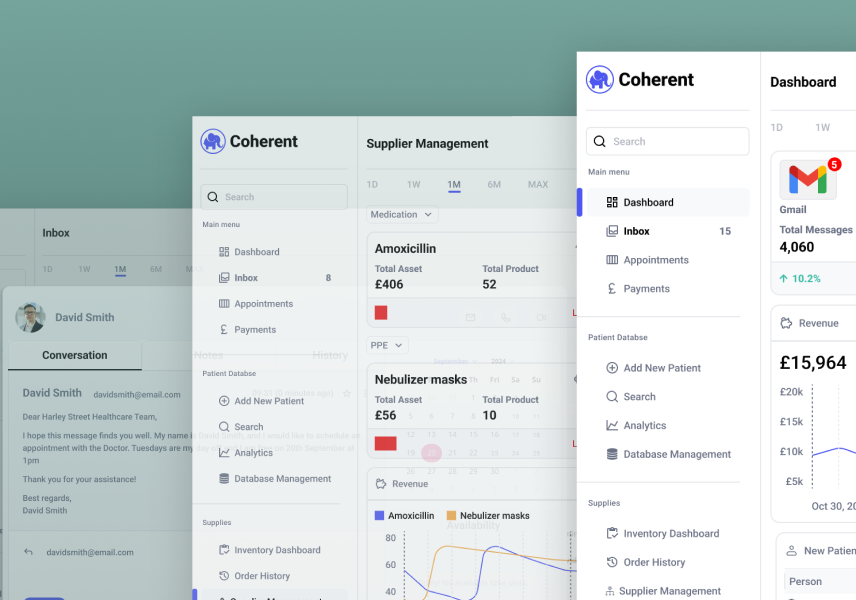
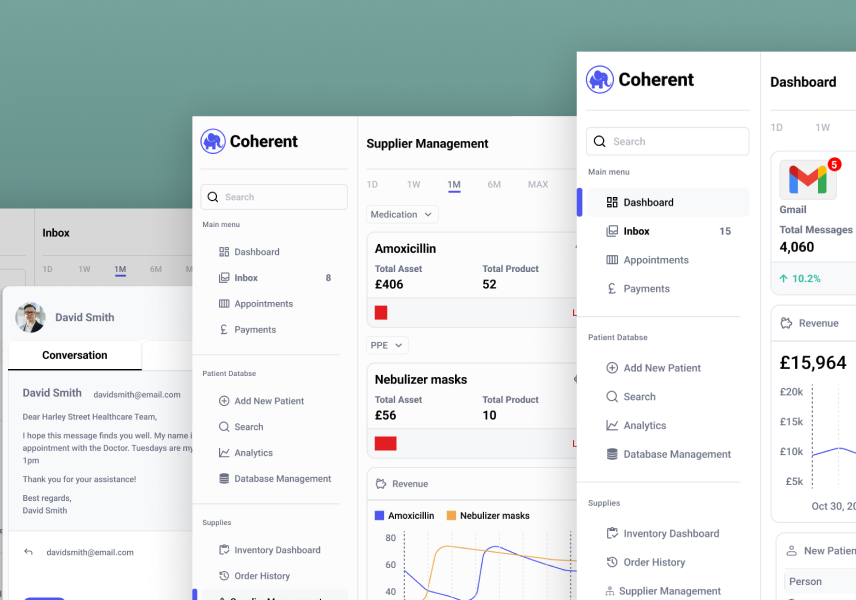
dark and light images

diff --git a/src/app/(pages)/elevate4/page.tsx b/src/app/(pages)/elevate4/page.tsx
@@ -1,3 +1,5 @@
+"use client"
+
 import Image from 'next/image';
 import { elevateData } from '@/app/data/elevate';
 import SectionTitle from '@/app/components/ui/SectionTitle';
@@ -16,6 +18,9 @@ import ProblemStatement from '@/app/components/ui/ProblemStatement';
 import TitleTextVideoSection from '@/app/components/ui/TitleTextVideoSection';
 import CoherentCard from '@/app/components/sections/CoherentCard';
 import AccCard from '@/app/components/sections/AacCard';
+import { useDarkMode } from '@/contexts/DarkModeContext';
+import Storyboard from '@/app/components/ui/Storyboard';
+import { useEffect, useState } from 'react';
 
 export default function ElevatePage() {
   const items = [
@@ -46,6 +51,18 @@ export default function ElevatePage() {
     { iconSrc: elevateData.arrow, title: "Team Insights Visualisation", sentence: elevateData.usability_text4 },
   ]
 
+  const { isDarkMode } = useDarkMode();
+  const [isMounted, setIsMounted] = useState(false);
+    
+      // Set mounted state to true after component mounts
+      useEffect(() => {
+        setIsMounted(true);
+      }, []);
+    
+      // Render nothing until mounted to avoid hydration issues
+      if (!isMounted) {
+        return null; // You can also return a loading spinner or placeholder if desired
+      }
 
     return (
       <div className="mt-4">
@@ -205,7 +222,17 @@ export default function ElevatePage() {
 
         <div className="max-w-[910px] mx-auto mt-8">
           <SectionTitle title={elevateData.story_title} />
-          <div className="relative max-w-[910px] mx-auto h-auto mb-8">
+          <Storyboard frames={[
+          { image: elevateData.storyboard1_image, caption: elevateData.storyboard1 },
+          { image: elevateData.storyboard2_image, caption: elevateData.storyboard2 },
+          { image: elevateData.storyboard3_image, caption: elevateData.storyboard3 },
+          { image: elevateData.storyboard4_image, caption: elevateData.storyboard4 },
+          { image: elevateData.storyboard5_image, caption: elevateData.storyboard5 },
+          { image: elevateData.storyboard6_image, caption: elevateData.storyboard6 },
+          { image: elevateData.storyboard7_image, caption: elevateData.storyboard7 },
+          { image: elevateData.storyboard8_image, caption: elevateData.storyboard8 },
+        ]} />
+          {/* <div className="relative max-w-[910px] mx-auto h-auto mb-8">
               <Image
                 src={elevateData.storyboard_image}
                 alt="User Stories Image"
@@ -216,7 +243,7 @@ export default function ElevatePage() {
                 layout="responsive"
                 className="object-cover object-center"
               />
-            </div>
+            </div> */}
         </div>
 
         <div className="max-w-[910px] mx-auto mt-8">
@@ -232,7 +259,7 @@ export default function ElevatePage() {
           <SectionTitle title={elevateData.userflows_title} />
           <div className="relative max-w-[910px] mx-auto h-auto">
               <Image
-                src={elevateData.userflows1_image}
+                src={isDarkMode ? elevateData.userflows1_image_dark : elevateData.userflows1_image_light}
                 alt="User Flow 1 Image"
                 width={910}
                 height={588}
@@ -243,7 +270,7 @@ export default function ElevatePage() {
               />
               <div className="mt-8 mx-auto h-auto">
                 <Image
-                  src={elevateData.userflows2_image}
+                  src={isDarkMode ? elevateData.userflows2_image_dark : elevateData.userflows2_image_light}
                   alt="User Flow 2 Image"
                   width={910}
                   height={480}

diff --git a/src/app/data/elevate.ts b/src/app/data/elevate.ts
@@ -57,7 +57,7 @@ export const elevateData = {
     persona_title: "Persona",
     persona_name: "Meet Emily",
     persona_job: "Age 30, Graphic Designer",
-    persona_quote: "“I want to track and share my continuous learning acheivments at work”",
+    persona_quote: "“I want to track and share my continuous learning achievements at work”",
     persona_goals_title: "Goals",
     persona_goals_text: "Emily is a dedicated and ambitious designer striving to establish herself as a versatile professional in her field. As a self-motivated learner, she actively seeks out new techniques and skills to enhance her craft keeping her ahead of industry trends. ",
     persona_pain_title: "Pain Points",
@@ -81,16 +81,18 @@ export const elevateData = {
     storyboard5: "Checks in on Elevate4",
     storyboard6_image: "/images/elevate-storyboard-6.png",
     storyboard6: "Gets updated on her team’s journey",
-    storyboard7_image: "/images/elevate-storyboard-6.png",
+    storyboard7_image: "/images/elevate-storyboard-7.png",
     storyboard7: "Gets more insights to her team’s feelings",
-    storyboard8_image: "/images/elevate-storyboard-6.png",
+    storyboard8_image: "/images/elevate-storyboard-8.png",
     storyboard8: "She starts her day one step ahead.",
     ideation_title: "Ideation",
     ideation_text: "During the ideation phase, I focused on creating a familiar and intuitive user experience for ELEVATE4, drawing inspiration from popular communication platforms like Teams and WhatsApp. My goal was to design an app that seamlessly integrates with both personal and professional life",
     ideation_image: "/images/elevate-ideation-image.png",
     userflows_title: "User Flows",
-    userflows1_image: "/images/elevate-userflow-1.png",
-    userflows2_image: "/images/elevate-userflow-2.png",
+    userflows1_image_light: "/images/elevate-userflow-1-light.png",
+    userflows2_image_light: "/images/elevate-userflow-2-light.png",
+    userflows1_image_dark: "/images/elevate-userflow-1-dark.png",
+    userflows2_image_dark: "/images/elevate-userflow-2-dark.png",
     paper_wireframes_titles: "Paper Wireframes",
     paper_wireframes_text: "By sketching these flows on paper, I was able to rapidly iterate on ideas and gather initial feedback before moving to digital prototypes. This process helped identify potential usability issues early.",
     paper_wireframes_image: "/images/elevate-paperwireframes.png",

diff --git a/src/app/components/ui/Storyboard.tsx b/src/app/components/ui/Storyboard.tsx
@@ -1,35 +1,43 @@
-// Storyboard.tsx
 import Image from "next/image";
 
 interface StoryboardProps {
-    frames: Array<{ image: string; caption: string }>;
+  frames: Array<{ image: string; caption: string }>;
+}
+
+const Storyboard: React.FC<StoryboardProps> = ({ frames }) => {
+  const totalFrames = frames.length;
+
+  // Determine the number of columns based on total frames
+  let gridCols = 'grid-cols-1'; // Default for small screens
+  if (totalFrames === 2) {
+    gridCols = 'grid-cols-1'; // 1 column for 1 or 2 frames
+
+  } else if (totalFrames === 8) {
+    gridCols = 'md:grid-cols-4'; // 4 columns for 5 to 8 frames
+  } else {
+    gridCols = 'md:grid-cols-3'; // Fallback for more than 8 frames
   }
-  
-  const Storyboard: React.FC<StoryboardProps> = ({ frames }) => {
-    return (
-      <div className="max-w-[910px] mx-auto">
-        <div className="grid grid-cols-1 md:grid-cols-3 gap-12">
-          {frames.map((frame, index) => (
-            <div key={index} className="flex flex-col items-center">
-              <Image
-                src={frame.image}
-                alt={`Storyboard frame ${index + 1}`}
-                width={274}
-                height={171}
-                quality={100}
-                unoptimized
-                className="w-full h-auto"
-              />
-              <p className="mt-2 text-center text-p-bold text-light-secondary dark:text-dark-secondary">{frame.caption}</p>
-            </div>
-          ))}
-        </div>
+
+  return (
+    <div className="max-w-[910px] mx-auto">
+      <div className={`grid grid-cols-1 ${gridCols} gap-12`}>
+        {frames.map((frame, index) => (
+          <div key={index} className="flex flex-col items-center">
+            <Image
+              src={frame.image}
+              alt={`Storyboard frame ${index + 1}`}
+              width={274}
+              height={171}
+              quality={100}
+              unoptimized
+              className="w-full h-auto"
+            />
+            <p className="mt-2 text-center text-p-bold text-light-secondary dark:text-dark-secondary">{frame.caption}</p>
+          </div>
+        ))}
       </div>
-    );
-  };
+    </div>
+  );
+};
 
 export default Storyboard;
-  
-  
-  
-  

diff --git a/src/app/data/coherent.ts b/src/app/data/coherent.ts
@@ -29,10 +29,12 @@ export const coherentData = {
     image8: "/images/coherent-usersurvey.png",
     title6: "User Interviews",
     text4: "Through interviews with several receptionists, I uncovered key pain points such as inefficient booking processes, the reliance on paper, and the need for an all-in-one digital system with automated responses to streamline communication and reduce workload. I supplemented these findings with desk research from forums and articles to deepen my understanding of user needs and challenges, particularly around transitioning to fully digital workflows.",
-    image9: "/images/coherent-interviews.png",
+    interview_image_light: "/images/coherent-interviews-light.png",
+    interview_image_dark: "/images/coherent-interviews-dark.png",
     affinity_title: "Affinity Map",
     affinity_text: "I synthesised the data from the interviews with an Affinity Map. This revealed that receptionists juggle multiple tasks daily with some areas of their work having the potential of being automated, although many interactions still require a personal touch. While they use digital tools, these are often fragmented, creating inefficiencies. There is strong interest in a streamlined, unified system that will enhance both workflow and client satisfaction.",
-    affinity_image: "/images/coherent-affinity.png",
+    affinity_image_light: "/images/coherent-affinity-light.png",
+    affinity_image_dark: "/images/coherent-affinity-dark.png",
     persona_title: "Persona",
     persona_text: "My persona Sally Smith, is a 35-year-old medical receptionist at a busy clinic, manages appointments, inquiries, and databases in a fast-paced medical environment. She is overwhelmed by her workload and shift handovers. Sally values tools that reduce stress and streamline communication, with automation for routine tasks while maintaining personal touches. This persona helped me focus my design on practical, supportive solutions for receptionists with similar challenges.",
     persona_name: "Meet Sally",

diff --git a/src/app/(pages)/coherent/page.tsx b/src/app/(pages)/coherent/page.tsx
@@ -1,3 +1,4 @@
+"use client"
 import Image from 'next/image';
 import { coherentData } from '@/app/data/coherent';
 import SectionTitle from "@/app/components/ui/SectionTitle";
@@ -13,10 +14,25 @@ import TitleTextSection from '@/app/components/ui/TitleTextSection';
 import TitleTextVideoSection from '@/app/components/ui/TitleTextVideoSection';
 import ElevateCard from '@/app/components/sections/ElevateCard';
 import AccCard from '@/app/components/sections/AacCard';
+import { useDarkMode } from '@/contexts/DarkModeContext';
+import { useEffect, useState } from 'react';
 
 
 export default function CoherentPage() {
+  const { isDarkMode } = useDarkMode();
+  const [isMounted, setIsMounted] = useState(false);
+  
+    // Set mounted state to true after component mounts
+    useEffect(() => {
+      setIsMounted(true);
+    }, []);
+  
+    // Render nothing until mounted to avoid hydration issues
+    if (!isMounted) {
+      return null; // You can also return a loading spinner or placeholder if desired
+    }
   return (
+
     <div className="mt-4">
       {/* Full-width hero image */}
       <div className="relative w-full h-[50vh] md:h-[80vh] lg:h-[100vh] mb-8 flex items-center object-contain">
@@ -132,7 +148,7 @@ export default function CoherentPage() {
     </div>
     <div className="relative max-w-[910px] mx-auto h-auto my-8 mb-8">
         <Image
-          src={coherentData.image9}
+          src={isDarkMode ? coherentData.interview_image_dark : coherentData.interview_image_light}
           alt="Interview Image"
           width={910}
           height={478}
@@ -148,7 +164,7 @@ export default function CoherentPage() {
     </div>
     <div className="relative max-w-[910px] mx-auto h-auto my-8 mb-8">
         <Image
-          src={coherentData.affinity_image}
+          src={isDarkMode ? coherentData.affinity_image_dark : coherentData.affinity_image_light}
           alt="Affinity Map Image"
           width={910}
           height={376}

diff --git a/src/app/components/sections/Hero.tsx b/src/app/components/sections/Hero.tsx
@@ -41,8 +41,10 @@ const Hero = () => {
         <div className="relative z-10 w-full max-w-[910px] mx-auto px-8">
           <div className="w-auto md:w-[700px] h-fit">
             <div className="text-center md:text-left">
-              <h2 className="text-caption-s text-light-primary dark:text-dark-primary mb-8">{heroData.name}</h2>
-              <h2 className="text-h3 text-light-secondary dark:text-dark-secondary mb-8">{heroData.title}</h2>
+              <h2 className="text-caption-s text-light-accent dark:text-dark-accent">{heroData.name}</h2>
+              <h2 className="text-h1-bold text-light-primary dark:text-dark-primary">{heroData.job}</h2>
+              <h2 className="text-h1-bold text-light-primary dark:text-dark-primary mb-6">{heroData.from}</h2>
+              <h2 className="text-h3 text-light-secondary dark:text-dark-secondary mb-8">{heroData.text}</h2>
               <div className='text-light-primary dark:text-dark-primary'>
                 <Button variant="outline" asChild>
                   <a 

diff --git a/src/app/components/ui/PersonaSection.tsx b/src/app/components/ui/PersonaSection.tsx
@@ -27,7 +27,7 @@ const PersonaSection: React.FC<PersonaSectionProps> = ({
       <div className="flex-1 md:mr-8">
         <span className="text-h1-bold text-light-primary dark:text-dark-primary">{name}</span>
         <h2 className="text-h3-bold text-light-secondary dark:text-dark-secondary md:mt-8">{job}</h2>
-        <p className="text-h2 text-light-turquoise dark:text-dark-turquoise mt-16">{quote}</p>
+        <p className="text-h2 text-light-accent dark:text-dark-accent mt-16">{quote}</p>
         <p className="text-h3-bold text-light-primary dark:text-dark-primary mt-8">{goals_title}</p>
         <div className="h-[4px] bg-light-hover dark:bg-dark-hover my-4" /> {/* Second Underline */}
         <p className="text-p text-light-secondary dark:text-dark-secondary mt-2">{goals_text}</p>

diff --git a/src/app/data/homeHero.ts b/src/app/data/homeHero.ts
@@ -3,8 +3,10 @@ export const heroData = {
     image_dark: "/images/home-hero-bw-dark.png",
     mobile_image: "/images/hero-image-mobile.png",
     top: 'Hi',
-    name: "I'm Mohan Veraitch a Product Designer from London",
-    title: "Dedicated to leveraging the fast-paced evolution of technology to build tools that solve problems.",
+    name: "I'm Mohan Veraitch",
+    job: "a Product Designer",
+    from: "from London",
+    text: "Using technology to build and solve.",
     tag: "Let's work together",
     intro: "I’m always open to discussing new projects, creative ideas, or opportunities to collaborate.",
     primary: "Download CV",

diff --git a/tailwind.config.ts b/tailwind.config.ts
@@ -37,7 +37,7 @@ export default {
         
       },
       fontSize: {
-        "caption-s": ["44px", { lineHeight: "120%", fontWeight: "700"}],
+        "caption-s": ["48px", { lineHeight: "120%", fontWeight: "700"}],
         "h1-bold": ["40px", { lineHeight: "120%", fontWeight: "700"}],
         "h1": ["40px", { lineHeight: "120%", fontWeight: "500"}],
         "h2-bold": ["32px", { lineHeight: "130%",fontWeight: "700"}],

diff --git a/src/app/components/layout/Footer.tsx b/src/app/components/layout/Footer.tsx
@@ -7,6 +7,7 @@ import { useCallback } from 'react';
 import { useRouter, usePathname } from 'next/navigation';
 import Link from 'next/link';
 
+
 export default function Footer() {
   const currentYear = new Date().getFullYear();
   const router = useRouter();
